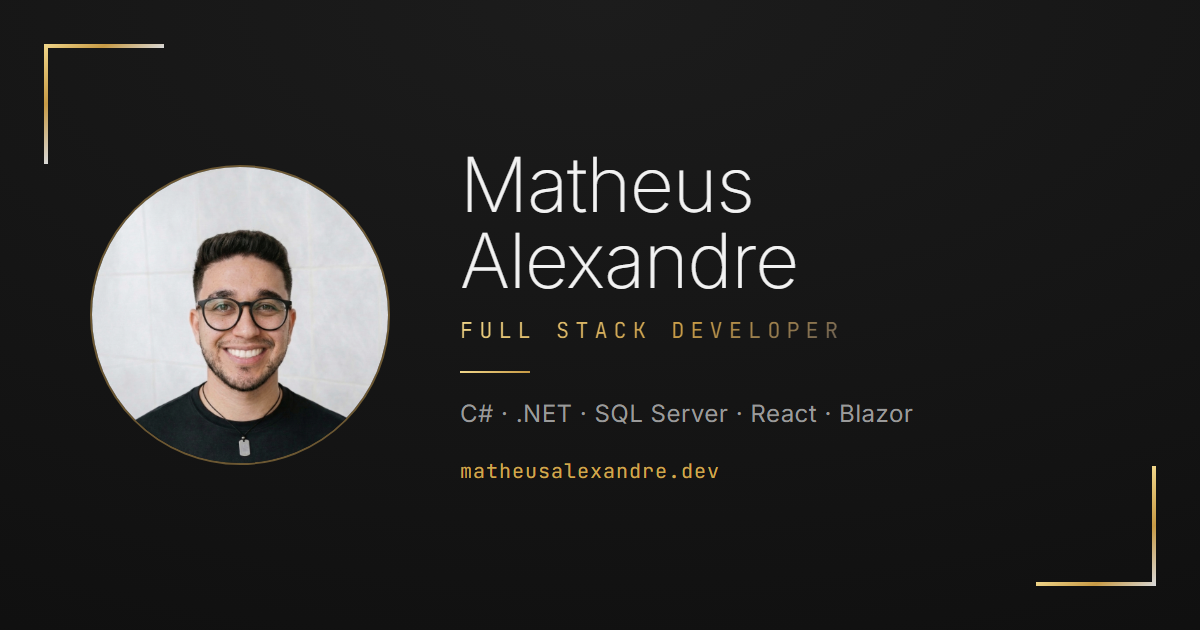
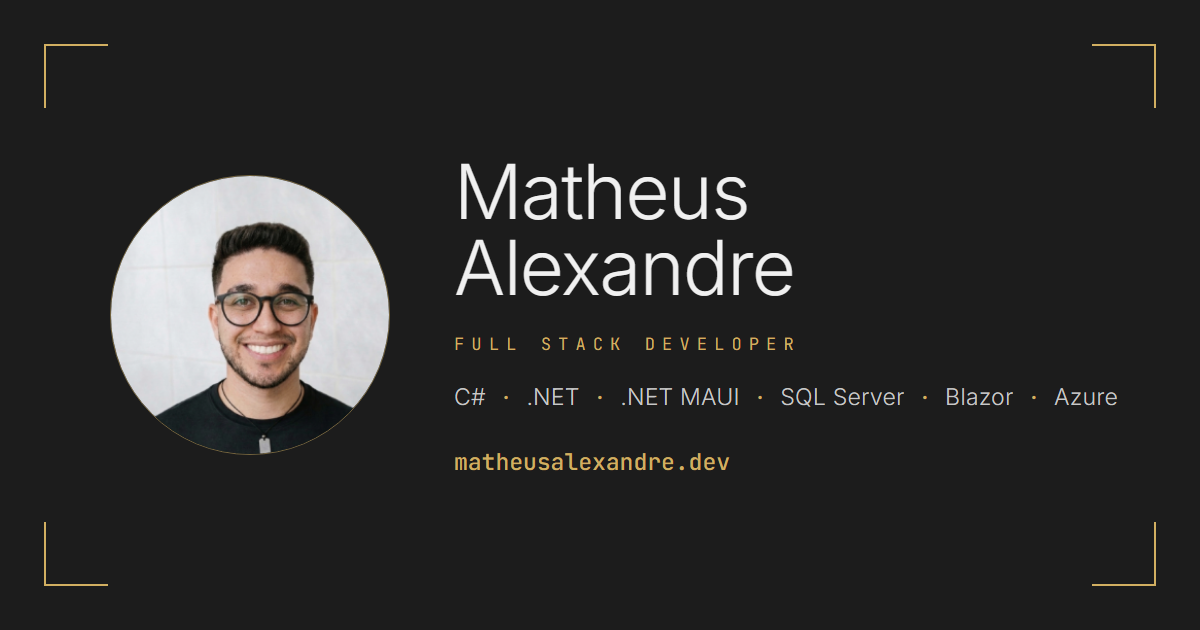
feat: regenerate OG image with Microsoft ecosystem stack
The shipped public/og-image.png still listed C# · .NET · SQL Server · React ·
Blazor — out of sync with the rest of the site, which now positions Matheus as
a Microsoft ecosystem specialist (Sobre, meta tags, Telegram message).

- Replace public/og-image.png with C# · .NET · .NET MAUI · SQL Server · Blazor
  · Azure on the banner (Azure is the key signal for international recruiters
  filtering by cloud experience)
- Add scripts/og/ with reproducible source: HTML layout, cropped photo, and a
  README documenting Edge headless regeneration (works on stock Win 10/11
  without installing Playwright)
- Same design language as the previous banner — charcoal background, gold
  corner brackets, Inter 300 for the name, JetBrains Mono for the role label
  and domain, so it stays consistent with the in-site visual identity

diff --git a/scripts/og/og-image.html b/scripts/og/og-image.html
@@ -1,0 +1,160 @@
+<!doctype html>
+<html lang="en">
+  <head>
+    <meta charset="UTF-8" />
+    <title>OG image source — Matheus Alexandre</title>
+    <link rel="preconnect" href="https://fonts.googleapis.com" />
+    <link rel="preconnect" href="https://fonts.gstatic.com" crossorigin />
+    <link
+      href="https://fonts.googleapis.com/css2?family=Inter:wght@200;300;500;700&family=JetBrains+Mono:wght@300;400;500&display=swap"
+      rel="stylesheet"
+    />
+    <style>
+      :root {
+        --bg: #1c1c1c;
+        --gold: hsl(42 55% 60%);
+        --gold-soft: hsl(42 48% 55%);
+        --text: #f0f0f0;
+        --text-dim: #c8c8c8;
+      }
+
+      * {
+        box-sizing: border-box;
+        margin: 0;
+        padding: 0;
+      }
+
+      html,
+      body {
+        width: 1200px;
+        height: 630px;
+        background: var(--bg);
+        font-family: 'Inter', sans-serif;
+        color: var(--text);
+        overflow: hidden;
+      }
+
+      .canvas {
+        position: relative;
+        width: 1200px;
+        height: 630px;
+        background: var(--bg);
+        display: flex;
+        align-items: center;
+        padding-left: 110px;
+        padding-right: 80px;
+        gap: 64px;
+      }
+
+      /* Corner brackets */
+      .bracket {
+        position: absolute;
+        width: 64px;
+        height: 64px;
+      }
+      .bracket-tl {
+        top: 44px;
+        left: 44px;
+        border-top: 2px solid var(--gold);
+        border-left: 2px solid var(--gold);
+      }
+      .bracket-tr {
+        top: 44px;
+        right: 44px;
+        border-top: 2px solid var(--gold);
+        border-right: 2px solid var(--gold);
+      }
+      .bracket-bl {
+        bottom: 44px;
+        left: 44px;
+        border-bottom: 2px solid var(--gold);
+        border-left: 2px solid var(--gold);
+      }
+      .bracket-br {
+        bottom: 44px;
+        right: 44px;
+        border-bottom: 2px solid var(--gold);
+        border-right: 2px solid var(--gold);
+      }
+
+      .photo {
+        flex-shrink: 0;
+        width: 280px;
+        height: 280px;
+        border-radius: 50%;
+        object-fit: cover;
+        border: 1px solid hsl(42 30% 35%);
+      }
+
+      .content {
+        flex: 1;
+        display: flex;
+        flex-direction: column;
+        gap: 24px;
+      }
+
+      h1 {
+        font-family: 'Inter', sans-serif;
+        font-size: 76px;
+        font-weight: 300;
+        line-height: 1.0;
+        letter-spacing: -0.02em;
+        color: var(--text);
+      }
+
+      .role {
+        font-family: 'JetBrains Mono', monospace;
+        font-size: 17px;
+        font-weight: 400;
+        color: var(--gold);
+        letter-spacing: 0.42em;
+        text-transform: uppercase;
+        padding-top: 4px;
+      }
+
+      .stack {
+        font-family: 'Inter', sans-serif;
+        font-size: 23px;
+        font-weight: 300;
+        color: var(--text-dim);
+        letter-spacing: 0.01em;
+        padding-top: 4px;
+      }
+
+      .stack .sep {
+        color: var(--gold);
+        margin: 0 10px;
+        font-weight: 400;
+      }
+
+      .domain {
+        font-family: 'JetBrains Mono', monospace;
+        font-size: 23px;
+        font-weight: 500;
+        color: var(--gold);
+        padding-top: 12px;
+      }
+    </style>
+  </head>
+  <body>
+    <div class="canvas">
+      <div class="bracket bracket-tl"></div>
+      <div class="bracket bracket-tr"></div>
+      <div class="bracket bracket-bl"></div>
+      <div class="bracket bracket-br"></div>
+
+      <img src="og-photo.png" class="photo" alt="Matheus Alexandre" />
+
+      <div class="content">
+        <h1>Matheus<br />Alexandre</h1>
+        <div class="role">Full Stack Developer</div>
+        <div class="stack">
+          C# <span class="sep">·</span> .NET <span class="sep">·</span> .NET MAUI
+          <span class="sep">·</span> SQL Server <span class="sep">·</span> Blazor
+          <span class="sep">·</span> Azure
+        </div>
+        <div class="domain">matheusalexandre.dev</div>
+      </div>
+    </div>
+  </body>
+</html>

diff --git a/scripts/og/README.md b/scripts/og/README.md
@@ -1,0 +1,47 @@
+# OG Image Generator
+
+Source files for `public/og-image.png` — the 1200×630 banner that previews when
+the portfolio is shared on LinkedIn, WhatsApp, Discord, Slack, Twitter, etc.
+
+## Files
+
+- **og-image.html** — the visual layout (charcoal background, corner brackets,
+  photo, name, role label, stack list, domain). Edit this when the stack or
+  positioning changes.
+- **og-photo.png** — the cropped circular photo used by `og-image.html`.
+
+## Regenerating after edits
+
+The HTML loads Google Fonts (Inter + JetBrains Mono), so a real browser is
+needed to render it. Easiest path on Windows uses Edge headless (already
+installed on every Win 10/11 box):
+
+```powershell
+$edge = 'C:\Program Files (x86)\Microsoft\Edge\Application\msedge.exe'
+$src  = 'file:///C:/Projetos/matheus-portfolio/scripts/og/og-image.html'
+$out  = 'C:\Projetos\matheus-portfolio\public\og-image.png'
+$tmp  = "$env:TEMP\og-image-render.png"
+if (Test-Path $tmp) { Remove-Item $tmp -Force }
+& $edge --headless=new --disable-gpu --hide-scrollbars --no-sandbox `
+        --window-size=1200,630 --virtual-time-budget=8000 `
+        "--screenshot=$tmp" $src
+Move-Item -Path $tmp -Destination $out -Force
+```
+
+The `--virtual-time-budget=8000` gives Google Fonts 8s to load before the
+screenshot is taken; without it the page renders with system fallback fonts.
+
+After regenerating, ask the LinkedIn Post Inspector and Facebook Sharing
+Debugger to re-scrape the URL so the preview cache updates:
+
+- https://www.linkedin.com/post-inspector/
+- https://developers.facebook.com/tools/debug/
+
+## When to update
+
+- The stack on the banner drifts from the bio in the Sobre section
+- The domain or positioning changes
+- The photo is replaced with a fresher portrait
+
+The text content lives in `og-image.html` between the `.content` div — no other
+edits needed for copy changes.
